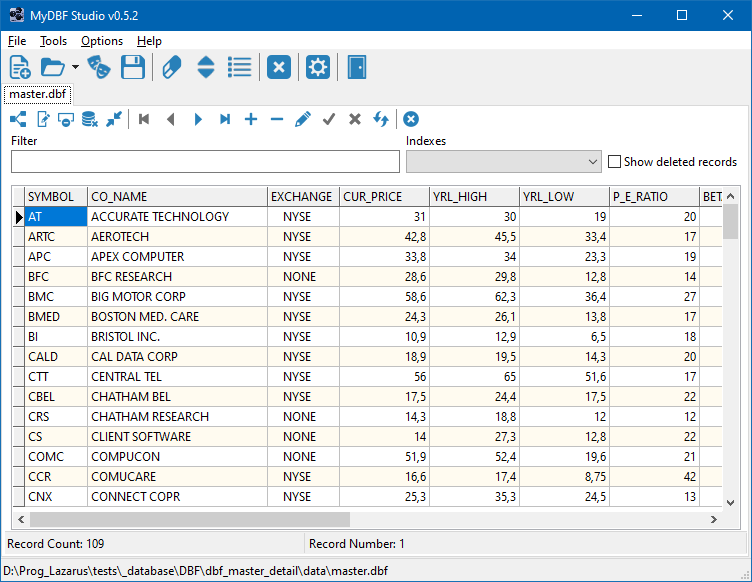
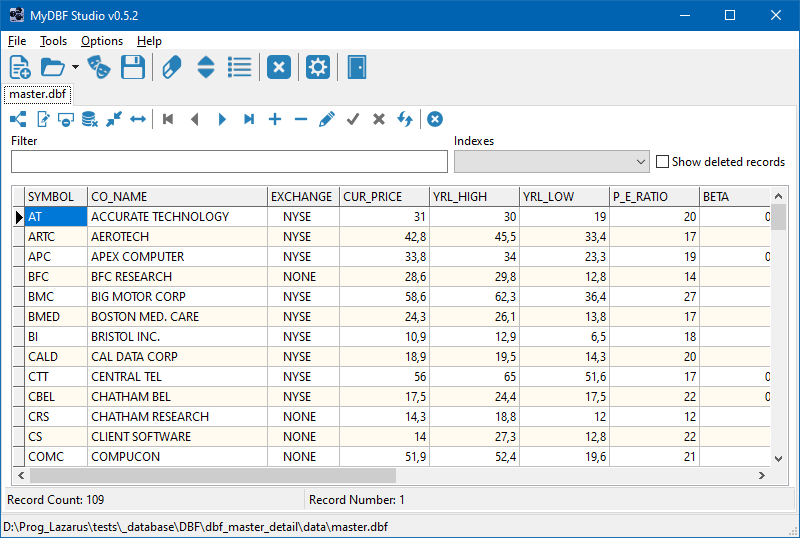
Some re-wording in help file; add "new table" screenshot; mention "auto-fill columns" feature.

Changed region(s): [[0.0, 0.0, 1.0, 1.0]]

diff --git a/help/index.html b/help/index.html
@@ -1,4 +1,4 @@
-<!DOCTYPE html PUBLIC "-//W3C//DTD HTML 4.01//EN" "http://www.w3.org/TR/html4/strict.dtd">
+<!DOCTYPE html PUBLIC "-//W3C//DTD HTML 4.01//EN" "http://www.w3.org/TR/html4/strict.dtd">
 <html lang="en">
   <head>
     <title>MyDBF Studio Home Page</title>
@@ -165,9 +165,17 @@
       <p>
         On the toolbar click the <i>New</i> button&nbsp;
         <img style="width: 16px; height: 16px;" alt="newbutton" src="img/icons8_new_copy_16px.png" />&nbsp;
-        or go to <i>File</i> &gt; <i>New...</i> in the menu. In the window that appears you can directly insert 
-        in the grid the field name, field type and length (if requested). You can also
-        choose the type of the table. The table types supported are:
+        or go to <i>File</i> &gt; <i>New...</i> in the menu. 
+      </p>
+      <img title="New table form" style="border: 2px solid; alt="newtableexample" src="img/newtable.png">
+      <p>
+        In the window that appears you can directly insert the field name, 
+        field type and length (if requested) in the grid. 
+        When you press the &darr; key in the last grid row an empty
+        row is added in which you can set up a new field.
+      </p>
+      <p>
+        You can also choose the type of the table. The table types supported are:
       </p>
       <ul style="font-weight: normal; text-align: justify;">
         <li style="margin-bottom:3pt">dBase III+</li>
@@ -184,7 +192,7 @@
         a name for the index and confirm by clicking the <i>OK</i> button. 
       </p>
       <p>
-        To save the new table, just click on the <i>OK</i> button and
+        To save the new table, just click on the <i>Create table</i> button and
         select the path and the name of the file.
       </p>
           
@@ -192,16 +200,16 @@
       <p>
         On the toolbar click the <i>Open</i> button&nbsp;
         <img style="width: 16px; height: 16px;" alt="openbutton" src="img/icons8_opened_folder_16px.png">&nbsp;
-        or go to <i>File</i> &gt; <i>Open...</i> in the menu. Browse the system 
+        or go to <i>File</i> &gt; <i>Open...</i> in the menu. Browse the file system 
         until you find the file you want to open and select it. 
         You can also select multiple files to open by pressing the
         CTRL key while clicking.
         Alternatively you can also drag dbf files from the operating system 
-        onto the MyDbfStudio window. Or you can specify the file names
-        as parameters on the command line:
+        onto the <i>MyDbf Studio</i> window. Or you can specify the file name(s)
+        as parameter(s) on the command line:
       </p>
       <p>
-        <pre style="margin-top:12px">mydfstudio first_file.dbf second_file.dbf</pre>
+        <pre style="margin-top:12px">mydfstudio file1.dbf file2.dbf</pre>
       </p>
           
       <h3><a name="Opening_an_existing_table_by_alias">Opening an existing table by alias</a></h3>
@@ -251,27 +259,34 @@
       <p>
         The first group of buttons invokes special functions like: 
         <ul>
-          <li style="margin-bottom:3pt">
+          <li style="margin-bottom:6pt">
             <img style="width: 16px; height: 16px; font-weight: normal;" alt="packtable" src="img/icons8_compress_16px.png">
             <i>Pack table</i> compacts the table, <i>i.e.</i> physically removes the deleted records.
           </li>
-          <li style="margin-bottom:3pt">
+          <li style="margin-bottom:6pt">
             <img style="width: 16px; height: 16px;" alt="emptybutton" src="img/icons8_delete_database_16px.png"> 
             <i>Empty table</i> deletes all records in the table.
           </li>
-          <li style="margin-bottom:3pt">
+          <li style="margin-bottom:6pt">
             <img style="width: 16px; height: 16px;" alt="cutbutton" src="img/icons8_delete_row_16px.png">
             Deletes only visible (non-filtered) records.
           </li>
-          <li style="margin-bottom:3pt">
+          <li style="margin-bottom:6pt">
             <img style="width: 16px; height: 16px;" alt="restructurebutton" src="img/icons8_tree_structure_16px.png"> 
             <i>Restructure</i> allows you to change the table structure or indexes.
           </li>
-          <li style="margin-bottom:3pt">
+          <li style="margin-bottom:6pt">
             <img style="width: 16px; height: 16px;" alt="setfieldbutton" src="img/icons8_edit_column_16px.png" /> 
             <i>Set field value</i> allows you to set a value for all table records for a specific field.
             Can either be a fixed value or the result of a 
-            mathematical operation between two fields (+,-,*,/).
+            mathematical operation between two fields (<tt>+, -, *, /</tt>).
+          </li>
+          <li style="margin-bottom:6pt">
+            <img style="width: 16px; height: 16px;" alt="autofillcolumnsbutton" src="img/icons8_resize_horizontal_16px.png" />
+            <i>Auto-fill columns</i>: If pressed, the width of the grid is
+            evenly distributed to all columns so that all of them are visible
+            without scrolling.
+            If released, the widths are reverted to the values setup in the dbf file.
           </li>
         </ul>
       </p>
@@ -290,7 +305,7 @@
         index specified.
       </p>
       <p>
-        By selecting <i>Show deleted records</i> you can activate, or not, 
+        By checking <i>Show deleted records</i> you can activate 
         the visualization of deleted records.
       </p>
           
@@ -299,15 +314,16 @@
         <i>MyDbf Studio</i> allows you to export data to various file formats.
         The following formats are currently supported:
         <ul>
-          <li style="margin-bottom:3pt">Comma Separated Value (.csv)</li>
-          <li style="margin-bottom:3pt">HTML file</li>
-          <li style="margin-bottom:3pt">Microsoft Excel© sheet (.xls)</li>
-          <li style="margin-bottom:3pt">DBF Table</li>
-          <li style="margin-bottom:3pt">XMS File</li>
+          <li style="margin-bottom:3pt">Comma Separated Values (<tt>.csv</tt>)</li>
+          <li style="margin-bottom:3pt">HTML file (<tt>.html</tt>)</li>
+          <li style="margin-bottom:3pt">Microsoft Excel© sheet (<tt>.xls</tt>)</li>
+          <li style="margin-bottom:3pt">DBF Table (<tt>.dbf</tt>)</li>
+          <li style="margin-bottom:3pt">XML File (<tt>.xml</tt>)</li>
         </ul>
       </p>
       <p>
-        In all cases, you can choose which fields to export from the active table. 
+        In all cases, you can choose which fields of the active table will be 
+        exported.
       </p>
             
       <h3><a name="Exporting_to_CSV">Exporting table to Comma Separated Value file (.csv)</a></h3>
